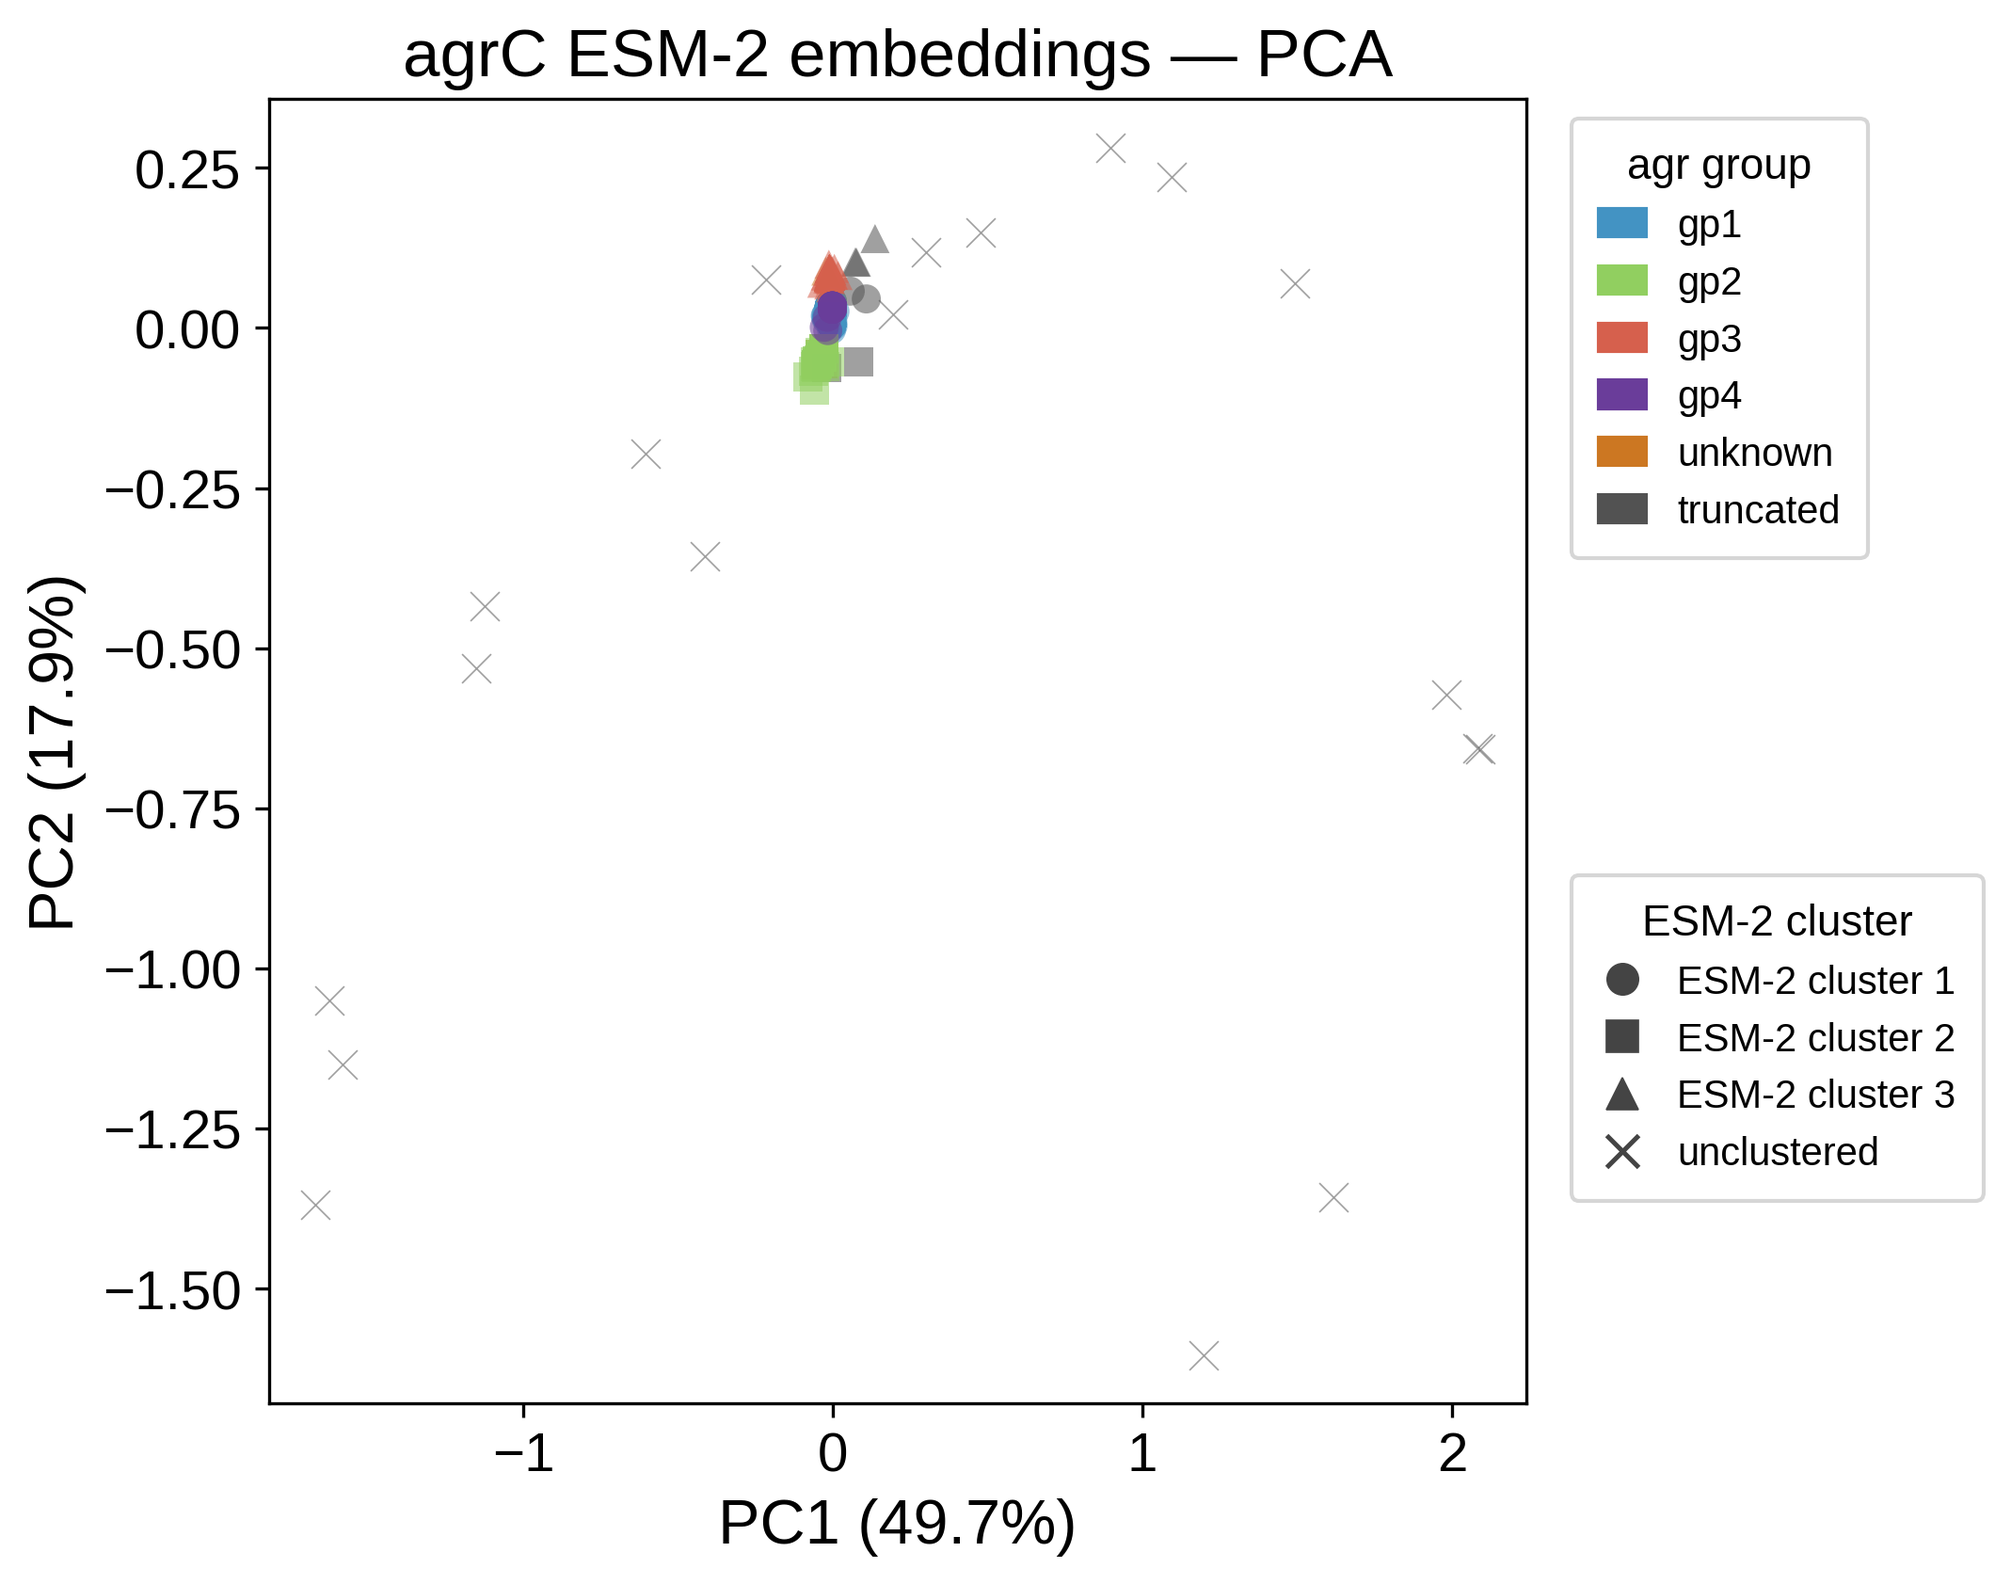
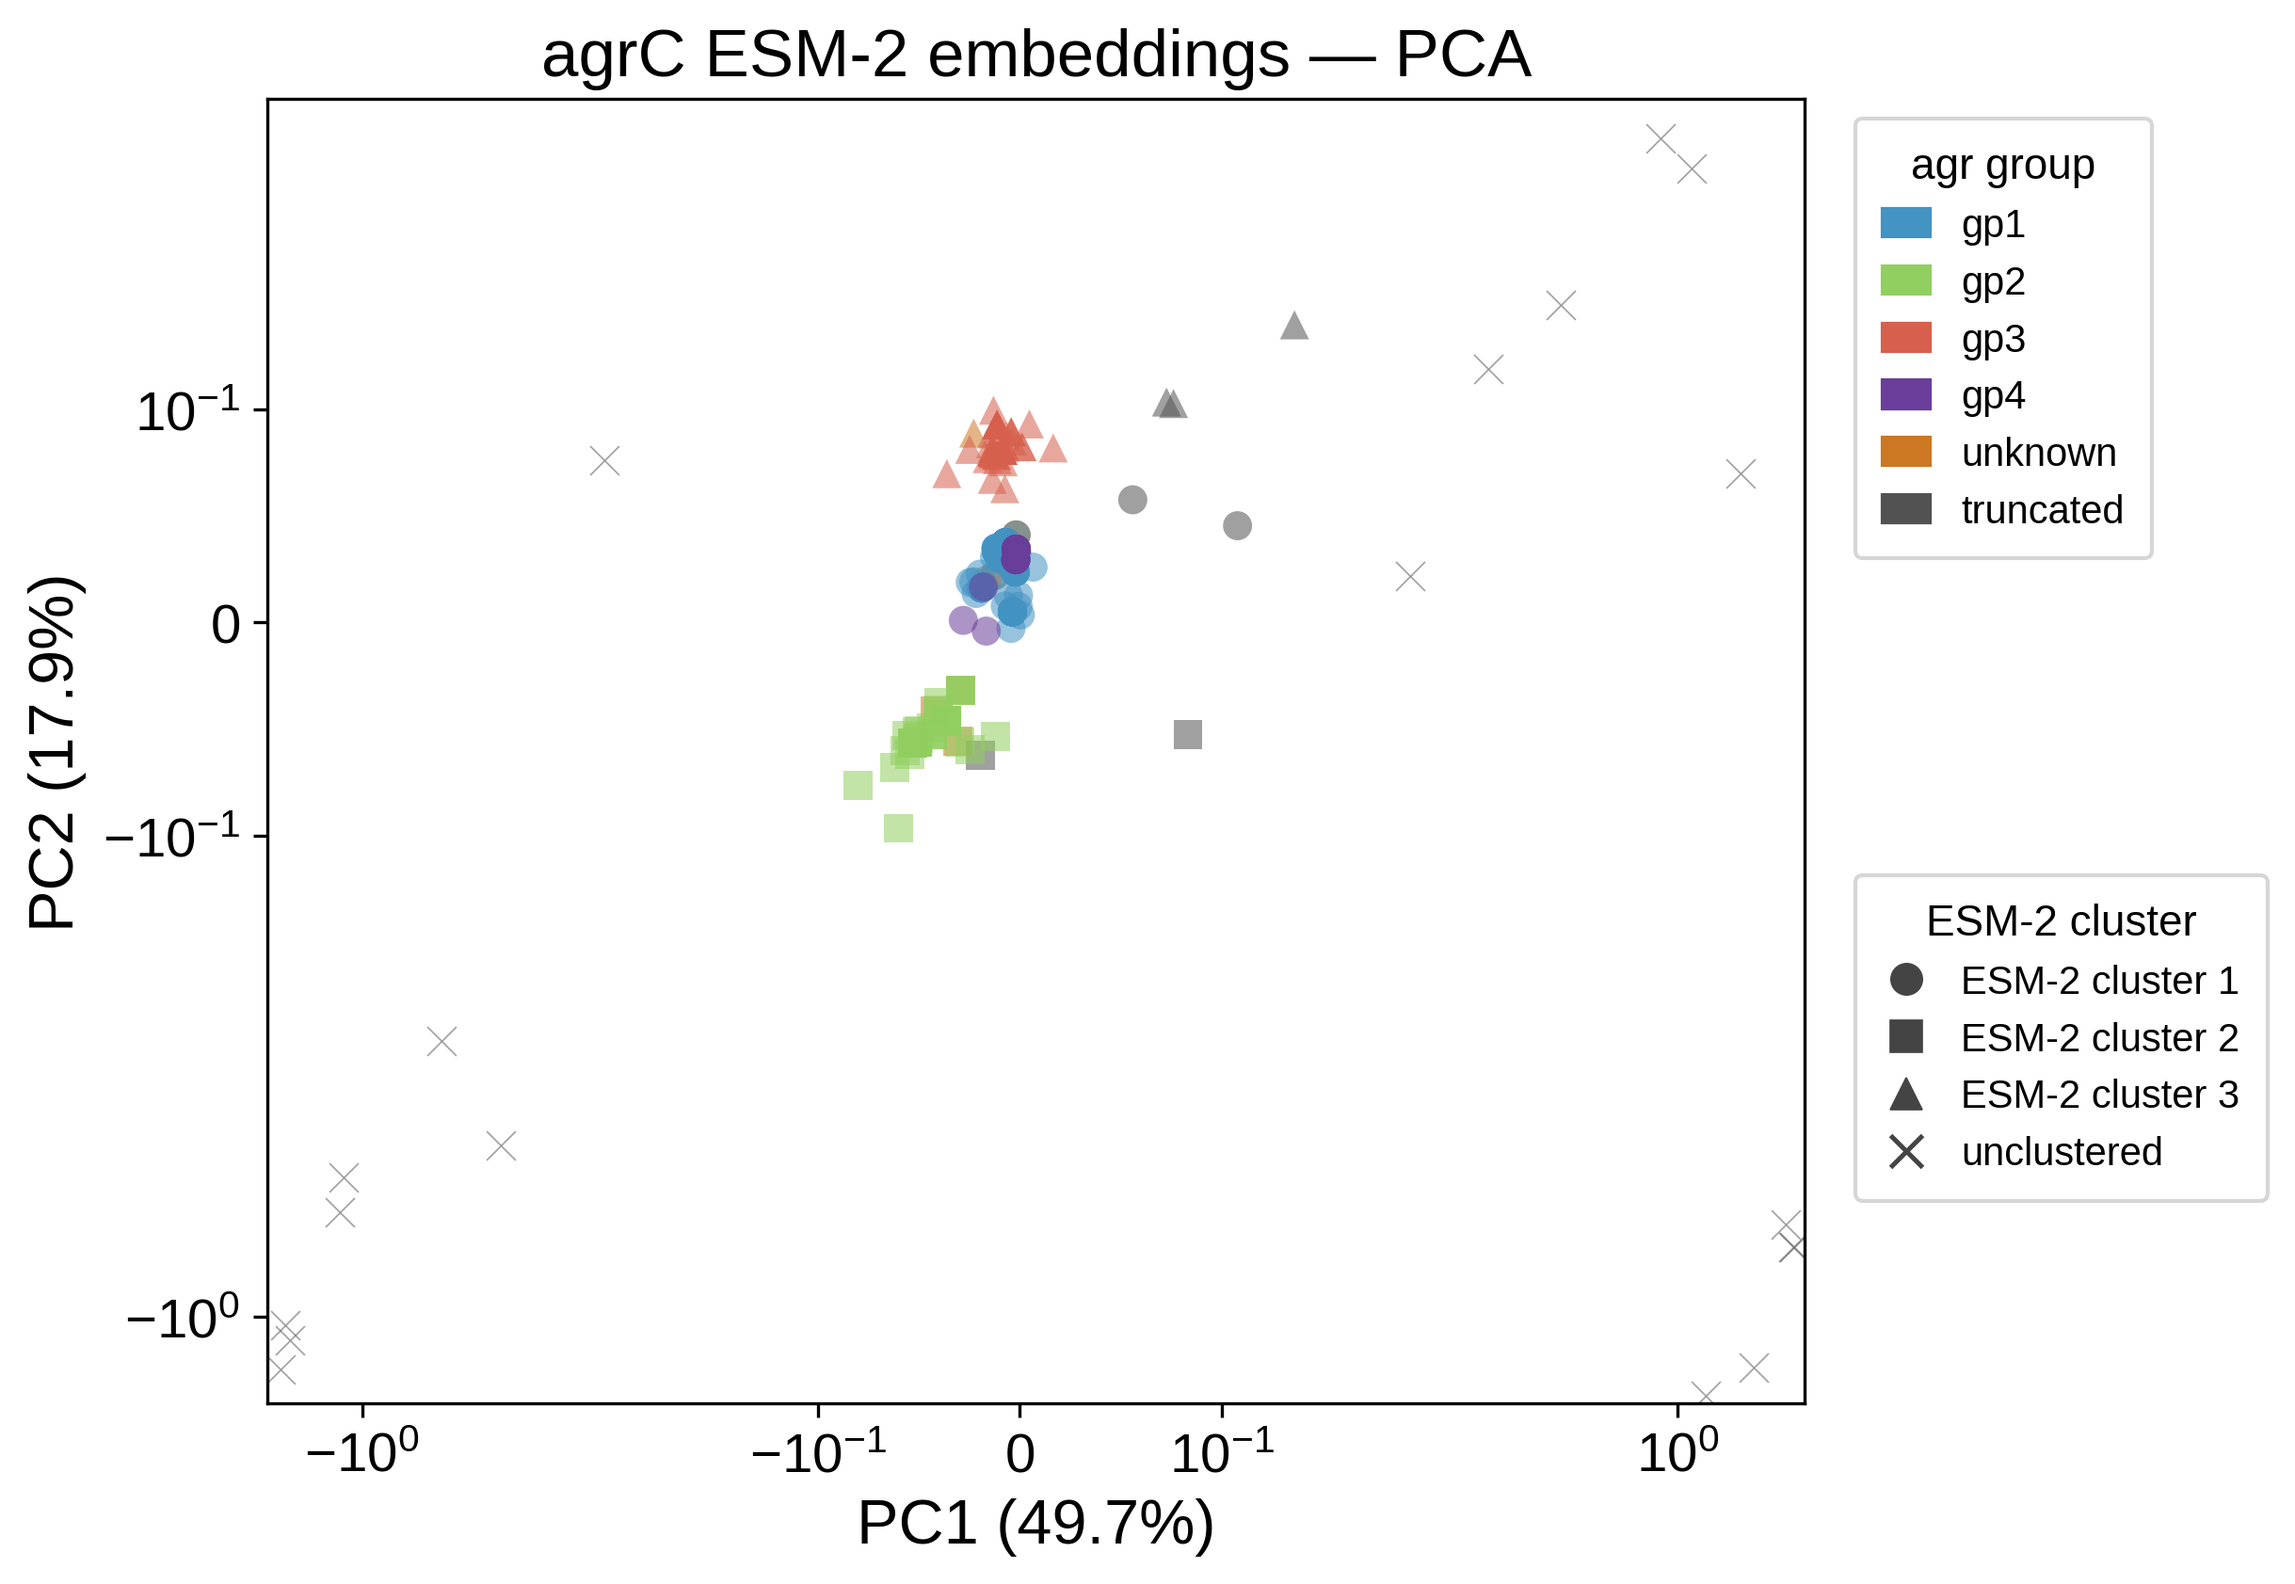
Add symlog scaling and widen to 11x6
https://claude.ai/code/session_01NFC4RxMTbBLYjMsjyKhpz9

diff --git a/agrc_esm_single.py b/agrc_esm_single.py
@@ -119,7 +119,7 @@ cluster_markers = {
 }
 
 # ── Plot ──────────────────────────────────────────────────────────────────────
-fig, ax = plt.subplots(figsize=(9, 6))
+fig, ax = plt.subplots(figsize=(11, 6))
 fig.subplots_adjust(right=0.62)   # leave room for legends on the right
 
 agr_order     = ["gp1", "gp2", "gp3", "gp4", "unknown", "truncated"]
@@ -144,6 +144,8 @@ for agr in agr_order:
                    edgecolors="none" if clust != "unclustered" else p1_colors[agr],
                    zorder=zord)
 
+ax.set_xscale("symlog", linthresh=0.2)
+ax.set_yscale("symlog", linthresh=0.2)
 ax.set_xlim(*xlim); ax.set_ylim(*ylim)
 ax.set_xlabel(f"PC1 ({var[0]:.1f}%)")
 ax.set_ylabel(f"PC2 ({var[1]:.1f}%)")
